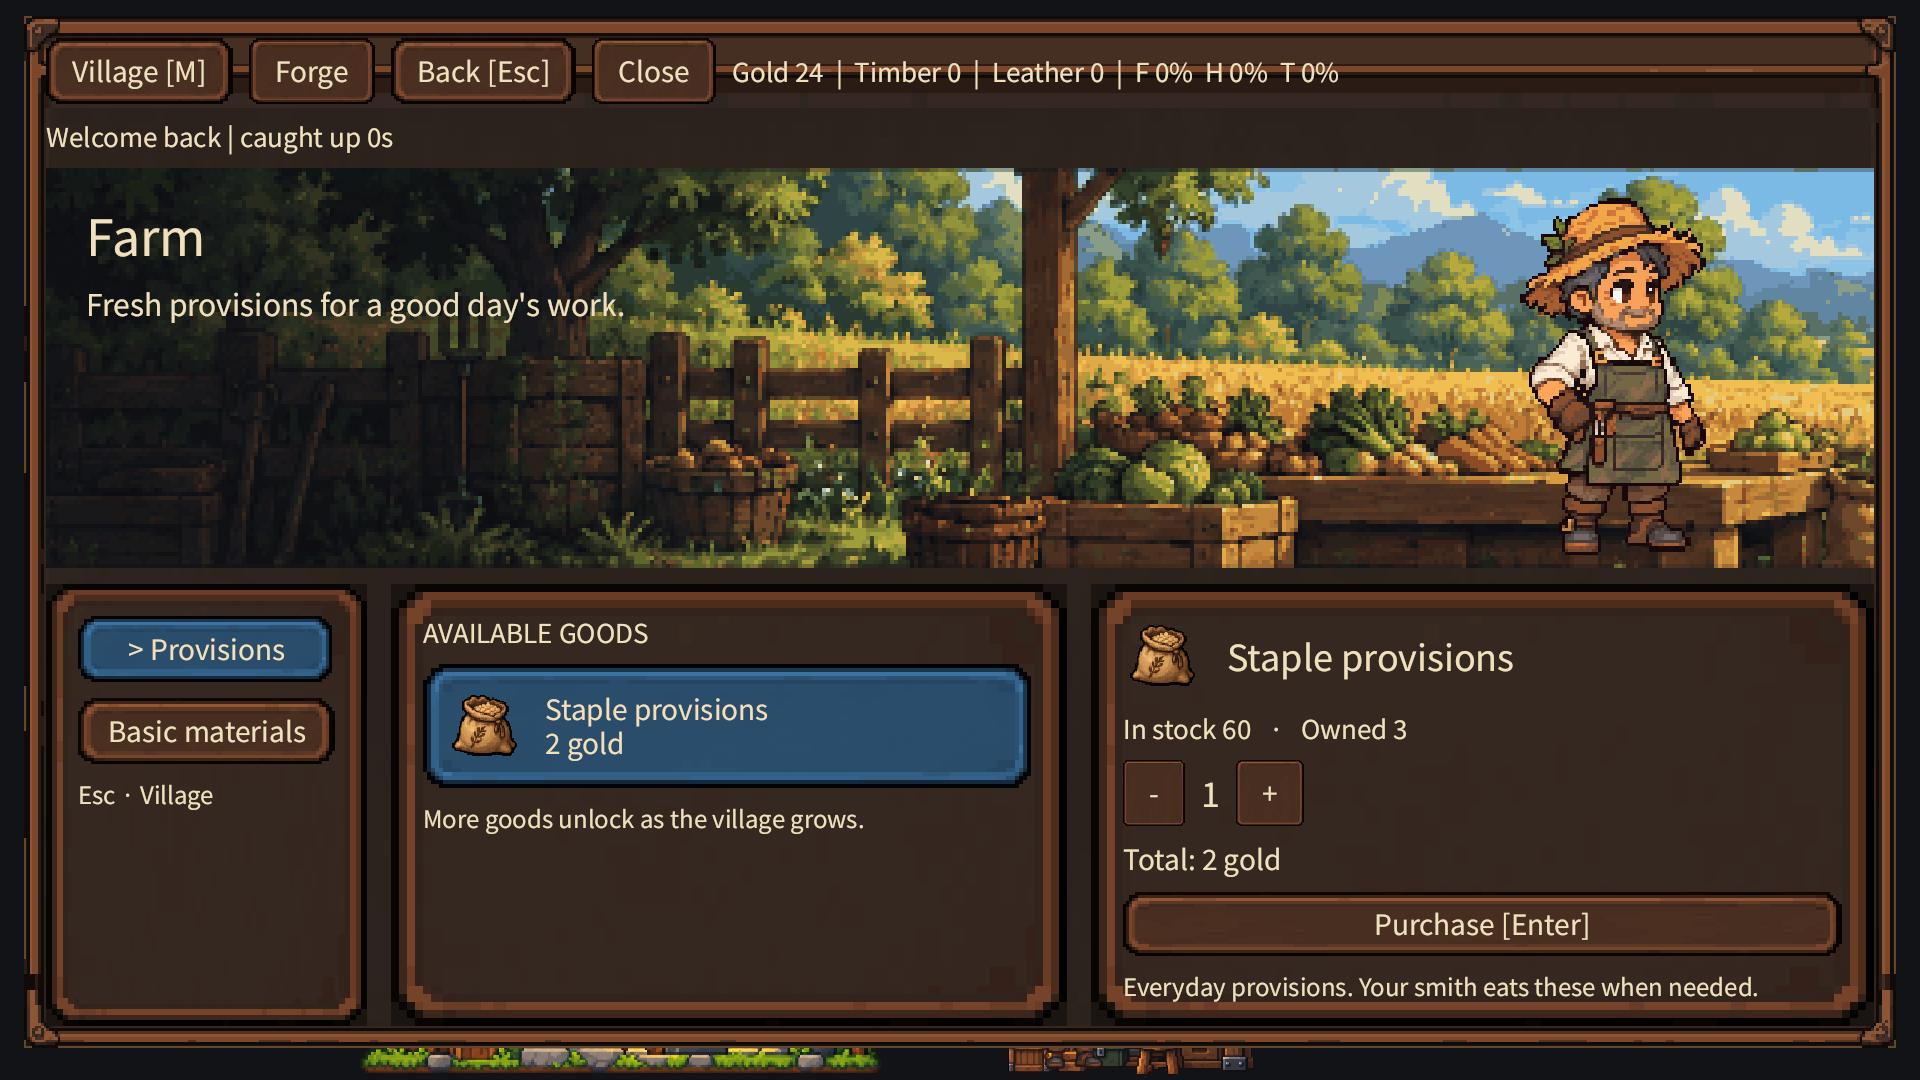
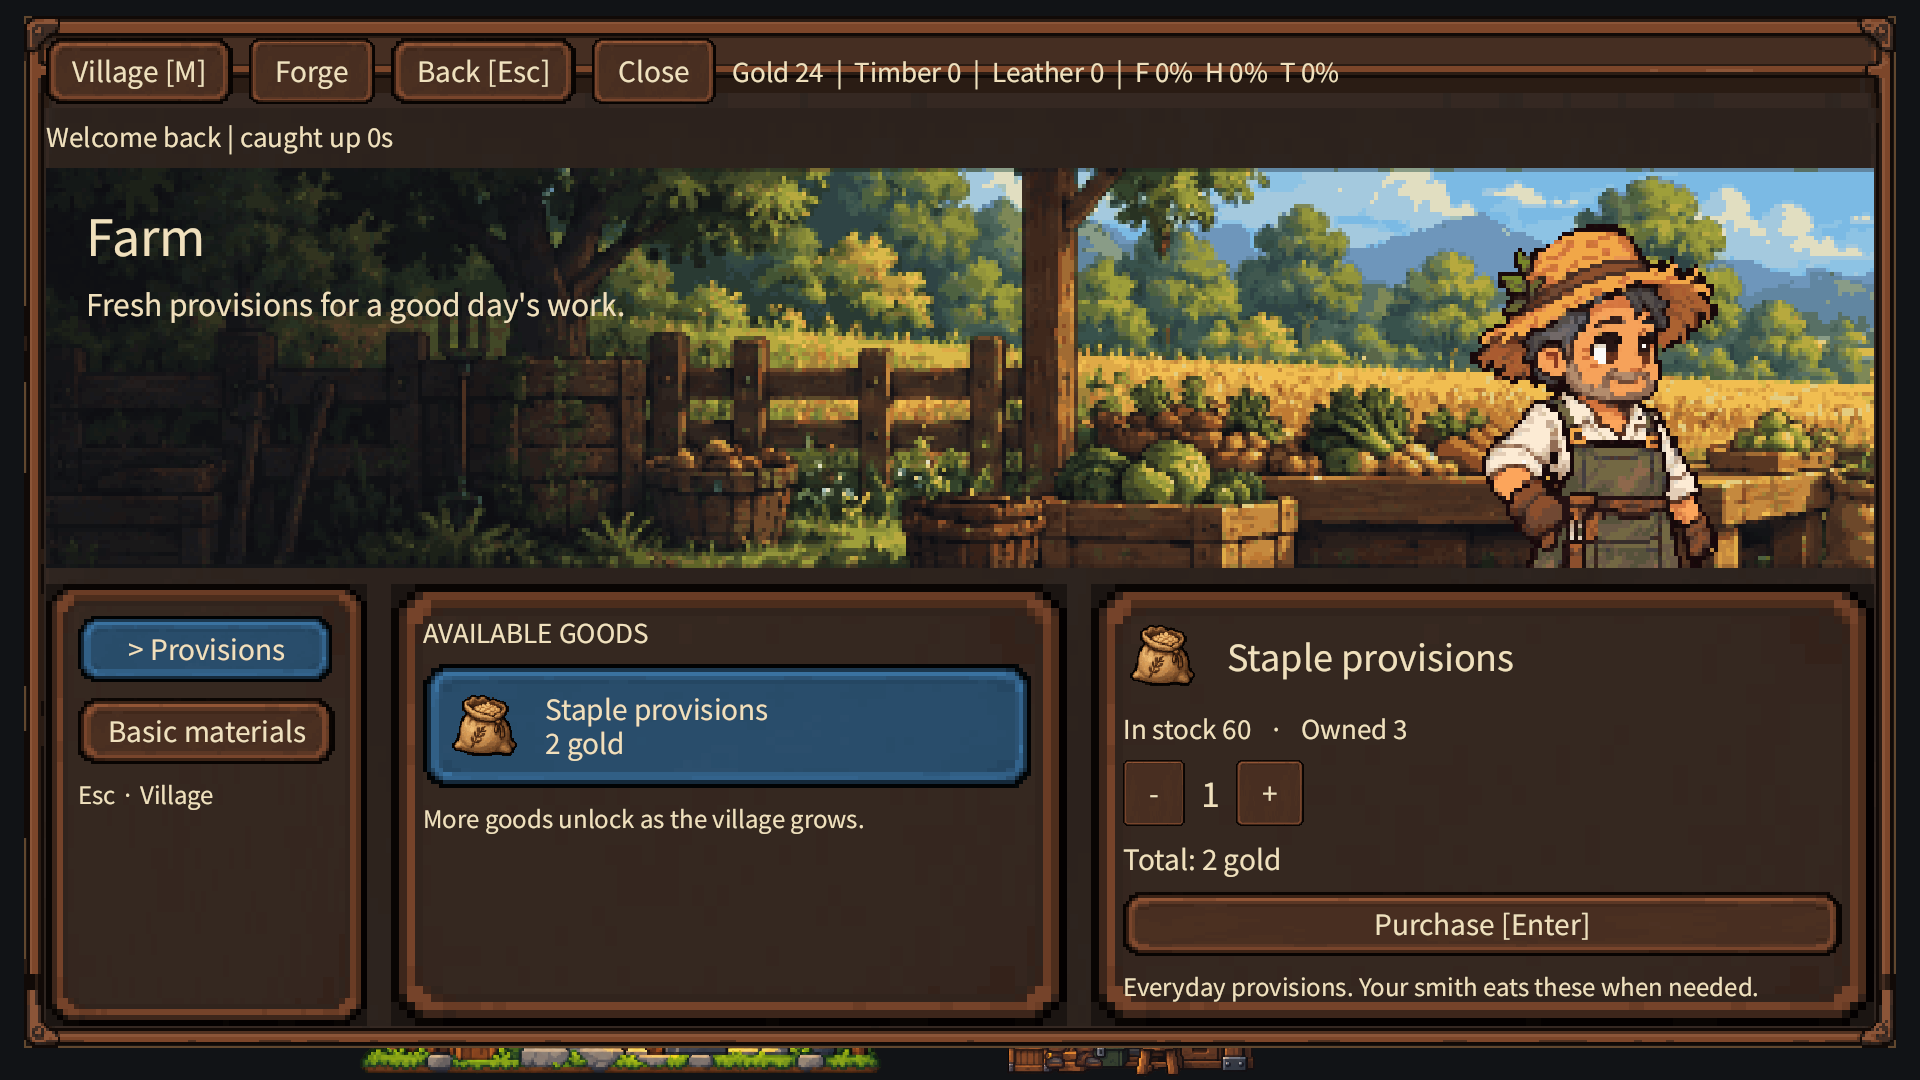
fix(ui): farmer in front of stall, cropped by header edge; Pillow 11.3 compatible validation

Changed region(s): [[0.75, 0.1833, 0.9062, 0.55]]

diff --git a/scripts/validate-ui.py b/scripts/validate-ui.py
@@ -45,7 +45,8 @@ for entry in runtime['assets']:
         assert small.resize(im.size, Image.NEAREST).tobytes() == im.tobytes(), f'{path}: not a true {g}px grid'
         if entry['kind'] != 'header-foreground':
             limit = manifest_limits[entry['kind'] if entry['kind'] in ('icon', 'header') else 'controls']
-            colours = {px[:3] for px in small.convert('RGBA').get_flattened_data() if px[3]}
+            raw = small.convert('RGBA').tobytes()
+            colours = {raw[i:i + 3] for i in range(0, len(raw), 4) if raw[i + 3]}
             assert len(colours) <= limit, f'{path}: {len(colours)} colours > {limit}'
         l, t, r, b = entry.get('insets_ltrb', (0, 0, 0, 0))
         assert l + r < entry['width'] and t + b < entry['height'], f'{path}: insets exceed size'

diff --git a/crates/forge-ui/src/lib.rs b/crates/forge-ui/src/lib.rs
@@ -414,12 +414,12 @@ struct Stage {
 }
 fn stage(header: &str) -> Stage {
     match header {
-        // The farmer stands on the ground in front of the stall, feet near the bottom edge.
-        // Full body must fit the 200px header, so the sprite is 1.5x.
+        // The farmer is in front of the stall: 2x (the header art grid) with the waist near the
+        // counter top, legs running off the bottom edge so no feet float above the ground.
         "farm" => Stage {
-            scale: 1.5,
-            right: 30.,
-            top: -18.,
+            scale: 2.,
+            right: 6.,
+            top: -16.,
         },
         _ => Stage {
             scale: 1.,

diff --git a/scripts/export-ui-assets.py b/scripts/export-ui-assets.py
@@ -65,7 +65,10 @@ def to_native(im, grid):
 
 def palette_for(images, colors):
     """Median-cut palette from the opaque pixels of `images`."""
-    pixels = [p[:3] for im in images for p in im.get_flattened_data() if p[3]]
+    pixels = []
+    for im in images:
+        raw = im.convert('RGBA').tobytes()
+        pixels += [tuple(raw[i:i + 3]) for i in range(0, len(raw), 4) if raw[i + 3]]
     mosaic = Image.new('RGB', (len(pixels), 1))
     mosaic.putdata(pixels)
     return mosaic.quantize(colors=colors, method=Image.Quantize.MEDIANCUT, dither=Image.Dither.NONE)

diff --git a/assets/ui/README.md b/assets/ui/README.md
@@ -85,10 +85,11 @@ alpha bounds, insets and hashes.
 | Headers | `headers/{carpenter,leatherworker,farm,tavern}.png` (1250×200) | none |
 
 Header stage: art is 1250×200 and shown at that height with uniform scale,
-anchored right. The farmer sprite is drawn at 1.5× and stands on the ground in
-front of the stall with feet near the bottom edge, full body visible. A cut-out
-foreground counter was tried and dropped: the props and uneven counter top make a
-clean mask impractical. Other merchants keep their previous placement.
+anchored right. The farmer sprite is drawn at 2× (the header grid) in front of
+the stall, waist near the counter top, legs cropped by the header's bottom edge so
+nothing floats. A cut-out foreground counter and a full-body standing pose were
+tried and dropped (props make a clean mask impractical; full body floated above the
+ground). Other merchants keep their previous placement.
 
 Skinned controls draw no node background (art carries every state); the node
 border is the focus/hover ring.

diff --git a/docs/ui/ACCEPTANCE.md b/docs/ui/ACCEPTANCE.md
@@ -100,8 +100,8 @@ Shared-component preview fixtures:
 (19 controls, 24 icons, 4 headers) live in `assets/ui/runtime/`,
 snapped to a real pixel grid (see `assets/ui/README.md`) and verified by
 `validate-ui.py`. Sidebar tabs, inventory slots and progress bars now use the
-exported art; the farm header is undistorted with the farmer enlarged and standing
-in front of the stall.
+exported art; the farm header is undistorted with the farmer enlarged and in front
+of the stall, cropped at the waist by the header edge.
 
 ![Forge](evidence/runtime-exports-home.png)
 ![Provisions slots](evidence/runtime-exports-provisions.png)
